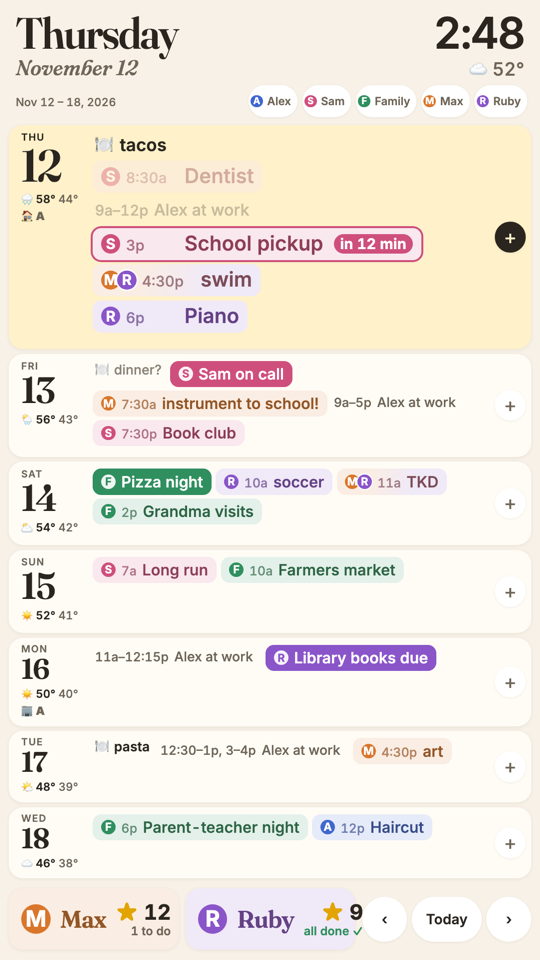
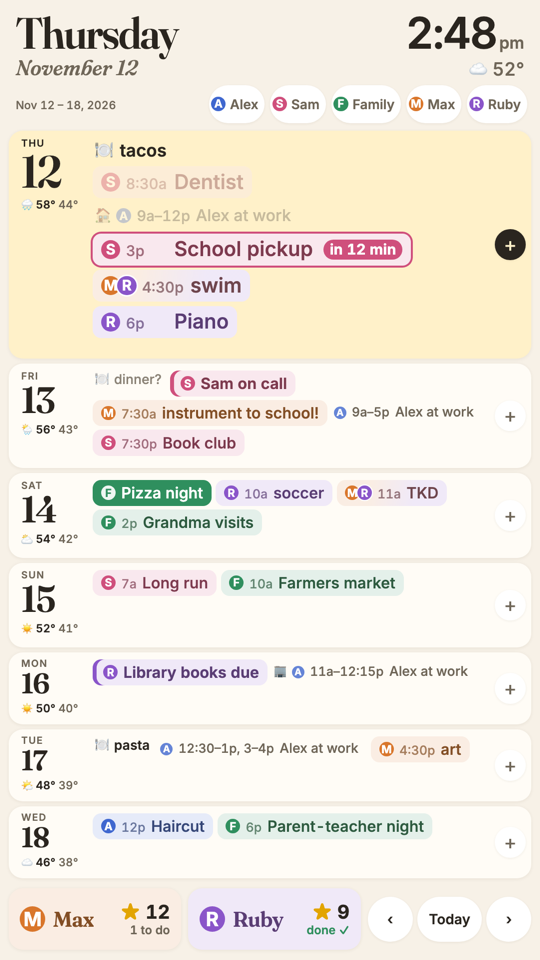
page: evening collapse with first-thing-tomorrow, solid only for family all-day, work line carries initial + Home/Office, am/pm, darker chip text, night today accent, bigger filter chips, footer fits; README screenshots re-shot with sorted data

diff --git a/src/page.html b/src/page.html
@@ -11,11 +11,11 @@
 @font-face{font-family:'Fraunces';font-style:italic;font-weight:100 900;font-display:swap;src:url(fonts/fraunces-italic.woff2) format('woff2')}
 :root{
   --paper:#F7F1E7; --card:#FFFCF6; --ink:#2A251F; --mute:#6F6658; --soft:#EFE7DA; --btn:#FFFFFF;
-  --today:#FFF1C9; --shadow:rgba(60,40,10,.07); --tint-base:#FFFFFF; --tint:13%; --mix:60%;
+  --today:#FFF1C9; --shadow:rgba(60,40,10,.07); --tint-base:#FFFFFF; --tint:13%; --mix:50%;
 }
 body.night{
   --paper:#16120D; --card:#201B15; --ink:#F1E9DB; --mute:#9C9180; --soft:#2B251D; --btn:#2A241C;
-  --today:#3E3120; --shadow:rgba(0,0,0,.35); --tint-base:#201B15; --tint:24%; --mix:38%;
+  --today:#262019; --shadow:rgba(0,0,0,.35); --tint-base:#201B15; --tint:24%; --mix:38%;
 }
 *{box-sizing:border-box;margin:0;-webkit-tap-highlight-color:transparent}
 html{font-size:clamp(16px,2.6vw,34px)}
@@ -33,20 +33,28 @@ body.night #stale{color:#F08A6E}
 #range{font-size:.8rem;font-weight:500;color:var(--mute);white-space:nowrap}
 #wxnow{font-size:1.3rem;font-weight:500;line-height:1.1;white-space:nowrap;color:var(--mute)}
 #clock{font-size:3.1rem;font-weight:600;letter-spacing:-.03em;line-height:.95}
+#clock .ap{font-size:.38em;font-weight:600;letter-spacing:0;margin-left:.15em;color:var(--mute)}
 nav{display:flex;gap:.35rem;align-items:center;flex:none}
-nav button{height:3.2rem;min-width:3.2rem;padding:0 1rem;border-radius:999px;background:var(--btn);font-weight:600;font-size:1rem;box-shadow:0 .05rem .2rem var(--shadow)}
+nav button{height:3.2rem;min-width:3.2rem;padding:0 .8rem;border-radius:999px;background:var(--btn);font-weight:600;font-size:1rem;box-shadow:0 .05rem .2rem var(--shadow)}
 nav button:active{background:var(--ink);color:var(--paper)}
 
 main{flex:1;display:flex;flex-direction:column;gap:.35rem;padding:.15rem .6rem .3rem;overflow-y:auto;min-height:0}
 .day{flex:1 0 auto;min-height:4.6rem;display:grid;grid-template-columns:6rem 1fr 3rem;border-radius:1rem;background:var(--card);box-shadow:0 .05rem .25rem var(--shadow)}
 .day.past{opacity:.5}
 .day.today{background:var(--today);flex-grow:2.4}
+body.night .day.today{box-shadow:inset .35rem 0 0 #E2A400,0 .05rem .25rem var(--shadow)}
+/* evening, nothing left today: fold today to one line and point at tomorrow */
+.day.today.over{flex-grow:0;min-height:0}
+.day.today.over .evs>.ev{display:none}
+.tmr{display:none;align-self:center;font-size:1.3rem;font-weight:600;padding:.3rem 0}
+.tmr span{color:var(--mute);font-weight:500;margin-right:.4rem}
+.day.today.over .tmr{display:block}
 .day.far{min-height:3.4rem;flex-grow:.5}
 .day.far .num{font-size:2rem} .day.far .when{padding-top:.35rem}
 /* today: one event per line, times aligned, past dimmed, next one called out */
 .today .evs{flex-direction:column;flex-wrap:nowrap;gap:.3rem;padding-top:.6rem}
 .today .ev{font-size:1.45rem;width:fit-content}
-.today .ev .t{min-width:3.6em;font-size:1.05rem}
+.today .ev .t{min-width:2.9em;font-size:1.05rem}
 .today .ev.busy{font-size:1.15rem}
 .today .num{font-size:3.2rem}
 .ev.done{opacity:.38}
@@ -86,8 +94,8 @@ main.tight .today .ev{font-size:1.3rem}
 .who{flex:none;align-self:center;display:inline-grid;place-items:center;width:1.3em;height:1.3em;border-radius:50%;
   background:var(--c,#8a8a86);color:#fff;font-size:.72em;font-weight:700;line-height:1}
 .ev.allday .who{background:rgba(255,255,255,.92);color:var(--c,#8a8a86)}
-#key{display:flex;flex-wrap:wrap;justify-content:flex-end;align-items:center;gap:.3rem .7rem;font-size:.8rem;font-weight:600;color:var(--mute)}
-.k{display:flex;align-items:center;gap:.3rem;white-space:nowrap;min-height:2.3rem;padding:0 .55rem 0 .35rem;margin:0 -.3rem;border-radius:999px;font:inherit;color:inherit;transition:opacity .2s}
+#key{display:flex;flex-wrap:wrap;justify-content:flex-end;align-items:center;gap:.35rem .75rem;font-size:.95rem;font-weight:600;color:var(--mute)}
+.k{display:flex;align-items:center;gap:.3rem;white-space:nowrap;min-height:2.7rem;padding:0 .65rem 0 .4rem;margin:0 -.3rem;border-radius:999px;font:inherit;color:inherit;transition:opacity .2s}
 .filtering .k{opacity:.35}
 .filtering .k.sel{opacity:1;background:color-mix(in srgb,var(--c) var(--tint),var(--tint-base));color:color-mix(in srgb,var(--c) var(--mix),var(--ink));box-shadow:0 0 0 .12rem var(--c)}
 .k .x{font-size:.8em;margin-left:.15rem}
@@ -95,7 +103,10 @@ main.tight .today .ev{font-size:1.3rem}
 .ev .t{font-weight:500;opacity:.7;white-space:nowrap;font-size:.9rem}
 .ev .n{min-width:0;overflow-wrap:anywhere}
 .ev.allday{background:var(--c,#8a8a86);color:#fff}
+.ev.allday-p{font-weight:650;box-shadow:inset .28rem 0 0 var(--c,#8a8a86);padding-left:.75rem}
 .ev.busy{background:none;color:var(--mute);font-weight:500;font-size:.95rem;padding-left:.15rem}
+.ev.busy .who{opacity:.8}
+.ev.busy .wl{font-size:.95em}
 .ev.busy .t{opacity:1}
 .none{color:var(--mute);font-size:.85rem;padding:.2rem 0 0 .2rem;opacity:.6}
 .plus{padding:0;align-self:center;justify-self:center;width:2.2rem;height:2.2rem;border-radius:50%;background:var(--btn);color:var(--mute);
@@ -104,12 +115,12 @@ main.tight .today .ev{font-size:1.3rem}
 
 footer{display:flex;align-items:stretch;gap:.5rem;padding:.4rem .6rem .7rem}
 #kids{flex:1;display:flex;gap:.5rem;min-width:0}
-.kt{flex:1 1 0;min-width:0;display:flex;align-items:center;gap:.7rem;min-height:4.4rem;padding:.5rem .9rem;border-radius:1rem;text-align:left;
+.kt{flex:1 1 0;min-width:0;display:flex;align-items:center;gap:.55rem;min-height:4.4rem;padding:.5rem .8rem;border-radius:1rem;text-align:left;
   background:color-mix(in srgb,var(--c) var(--tint),var(--tint-base));box-shadow:0 .05rem .25rem var(--shadow)}
-.kt .who{font-size:1.6rem}
-.kt b{font-family:'Fraunces',Georgia,serif;font-size:1.7rem;font-weight:600;letter-spacing:-.02em;color:color-mix(in srgb,var(--c) var(--mix),var(--ink))}
-.kt .ks{margin-left:auto;text-align:right;line-height:1.15;white-space:nowrap}
-.kt .ks i{font-style:normal;font-size:1.5rem;font-weight:700}
+.kt .who{font-size:1.4rem}
+.kt b{min-width:0;overflow:hidden;text-overflow:ellipsis;white-space:nowrap;font-family:'Fraunces',Georgia,serif;font-size:1.5rem;font-weight:600;letter-spacing:-.02em;color:color-mix(in srgb,var(--c) var(--mix),var(--ink))}
+.kt .ks{flex:none;margin-left:auto;padding-left:.3rem;text-align:right;line-height:1.15;white-space:nowrap}
+.kt .ks i{font-style:normal;font-size:1.35rem;font-weight:700}
 .kt .ks i::before{content:'★ ';color:#E2A400}
 .kt .ks small{display:block;font-size:.85rem;font-weight:600;color:var(--mute)}
 .kt.clear .ks small{color:#2F8F5E}
@@ -289,11 +300,11 @@ button.k{font:inherit;cursor:pointer;padding:.1rem .45rem .1rem .15rem;margin:-.
       // Working location (Office/Home) → a small "🏢 J" under the date instead of a chip.
       // Filter by person: theirs, plus whole-family events and meals (work blocks count as their owner's).
       var mine=function(e){return !state.only||e.meal||e.person===state.only||(e.people&&e.people.indexOf(state.only)>=0)||(e.person===sharedName()&&!e.busy)};
+      var locOf={};   // working location (Office/Home) rides on that person's work line
       var shown=day.events.filter(function(e){
         if(!mine(e))return false;
         if(!e.where)return true;
-        var x=el('div','loc',({home:'\uD83C\uDFE0',office:'\uD83C\uDFE2'}[e.where]||'\uD83D\uDCCD')+' ');
-        x.appendChild(el('b','',(e.person||'?').charAt(0)));x.title=(e.person||'')+': '+e.title;w.appendChild(x);return false;
+        locOf[e.person||'']=({home:'\uD83C\uDFE0',office:'\uD83C\uDFE2'}[e.where]||'\uD83D\uDCCD');return false;
       });
       var evs=el('div','evs');
       if(on('meals')&&i<2&&!shown.some(function(e){return e.meal})){
@@ -312,7 +323,8 @@ button.k{font:inherit;cursor:pointer;padding:.1rem .45rem .1rem .15rem;margin:-.
           busy[k].blocks.push([e.from,e.to]);
           return;
         }
-        var c=el('div','ev'+(e.allDay?' allday':''));tapEvent(c,e,lbl);
+        // solid fill only for whole-family all-day things; a person's all-day gets a tint and a bar
+        var c=el('div','ev'+(e.allDay?(e.person===sharedName()?' allday':' allday-p'):''));tapEvent(c,e,lbl);
         if(e.color)c.style.setProperty('--c',e.color);
         if(e.people&&e.people.length>1){
           // shared by several people: blend first and last colours, show every initial
@@ -334,10 +346,22 @@ button.k{font:inherit;cursor:pointer;padding:.1rem .45rem .1rem .15rem;margin:-.
         // Real blocks, so free gaps stay visible; only blocks < 30 min apart are joined.
         var bl=b.blocks.sort(function(x,y){return x[0]<y[0]?-1:1}),out=[];
         bl.forEach(function(x){var l=out[out.length-1];if(l&&mins(x[0])-mins(l[1])<30){if(x[1]>l[1])l[1]=x[1]}else out.push([x[0],x[1]])});
+        if(locOf[k])b.node.appendChild(el('span','wl',locOf[k]));
+        if(k&&isPerson(k)){var wb=el('span','who',k.charAt(0));wb.style.setProperty('--c',colorOf(k));b.node.appendChild(wb)}
         b.node.appendChild(el('span','t',out.length===1&&out[0][0]==='00:00'&&out[0][1]==='24:00'?'all day':out.map(function(x){return span(x[0],x[1])}).join(', ')));
         b.node.appendChild(el('span','n',k?k+' '+conf().busyLabel:'Busy'));
         if(isToday&&out.length&&mins(out[out.length-1][1])<=nowMin())b.node.classList.add('done');
       });
+      // Evening and nothing left today: fold today to one line and say what's first tomorrow.
+      if(isToday&&nowMin()>=17*60&&d.days[i+1]){
+        var left=shown.some(function(e){return !e.meal&&!e.allDay&&(e.busy?mins(e.to)>nowMin():(e.endMin!=null?e.endMin:(e.startMin||0)+60)>nowMin())});
+        if(!left){
+          var tm=d.days[i+1].events.filter(function(e){return mine(e)&&!e.busy&&!e.meal&&!e.where}),ft=tm.filter(function(e){return !e.allDay})[0]||tm[0];
+          var tl=el('div','tmr');tl.appendChild(el('span','',ft?(ft.allDay?'Tomorrow:':'First thing tomorrow:'):'Tomorrow'));
+          tl.appendChild(document.createTextNode(ft?(ft.time&&!ft.allDay?ft.time+' ':'')+ft.title:'nothing planned yet'));
+          evs.appendChild(tl);row.classList.add('over');
+        }
+      }
       row.appendChild(evs);
       // One-line fallback used only when the week doesn't fit: initials + "5 things, first 7:30a".
       var sl=el('div','sumline'),real=shown.filter(function(e){return !e.meal&&!e.busy}),seen={};
@@ -383,7 +407,7 @@ button.k{font:inherit;cursor:pointer;padding:.1rem .45rem .1rem .15rem;margin:-.
       var b=el('button','kt'+(k.chores.length&&!left?' clear':''));b.type='button';b.style.setProperty('--c',k.color);
       b.appendChild(el('span','who',k.name.charAt(0)));b.appendChild(el('b','',k.name));
       var ks=el('span','ks');ks.appendChild(el('i','',k.stars));
-      ks.appendChild(el('small','',!k.chores.length?'':left?left+' to do':'all done ✓'));b.appendChild(ks);
+      ks.appendChild(el('small','',!k.chores.length?'':left?left+' to do':'done ✓'));b.appendChild(ks);
       b.addEventListener('click',openChores);root.appendChild(b);
     });
   }
@@ -662,7 +686,7 @@ button.k{font:inherit;cursor:pointer;padding:.1rem .45rem .1rem .15rem;margin:-.
 
   function tick(){
     var n=new Date(),h=n.getHours(),m=n.getMinutes();
-    $('clock').textContent=(h%12||12)+':'+(m<10?'0':'')+m;
+    $('clock').textContent=(h%12||12)+':'+(m<10?'0':'')+m;$('clock').appendChild(el('span','ap',h<12?'am':'pm'));
     document.body.classList.toggle('night',h>=21||h<6);
     document.querySelector('meta[name=theme-color]').content=(h>=21||h<6)?'#16120D':'#F7F1E7';
   }
